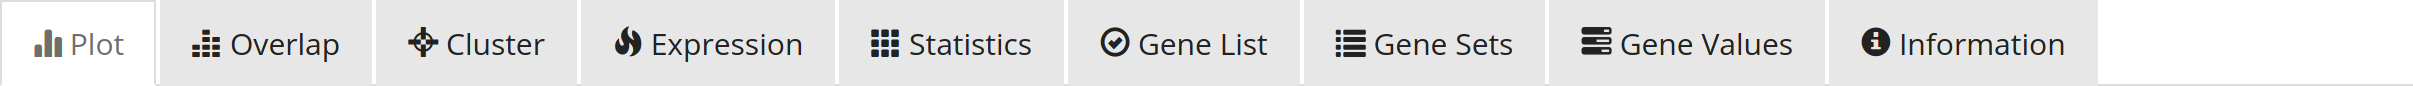
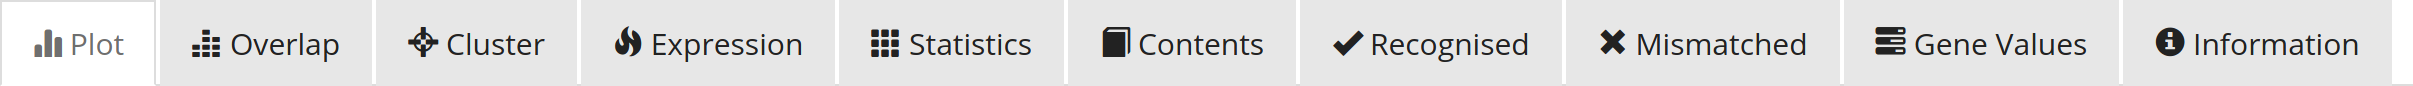
More Shiny input statistics, with documentation updates

Changed region(s): [[0.4351, 0.3023, 0.9946, 0.6744], [0.5906, 0.6744, 0.6216, 0.7209]]

diff --git a/NEWS.md b/NEWS.md
@@ -1,4 +1,8 @@
 # glacier (development)
+## glacier 0.12.3
+* Make input statistics more descriptive
+* Documentation updates
+
 ## glacier 0.12.2
 * Attempt to fix slider bouncing issue
 * Make single-cell annotation selection easier to use
